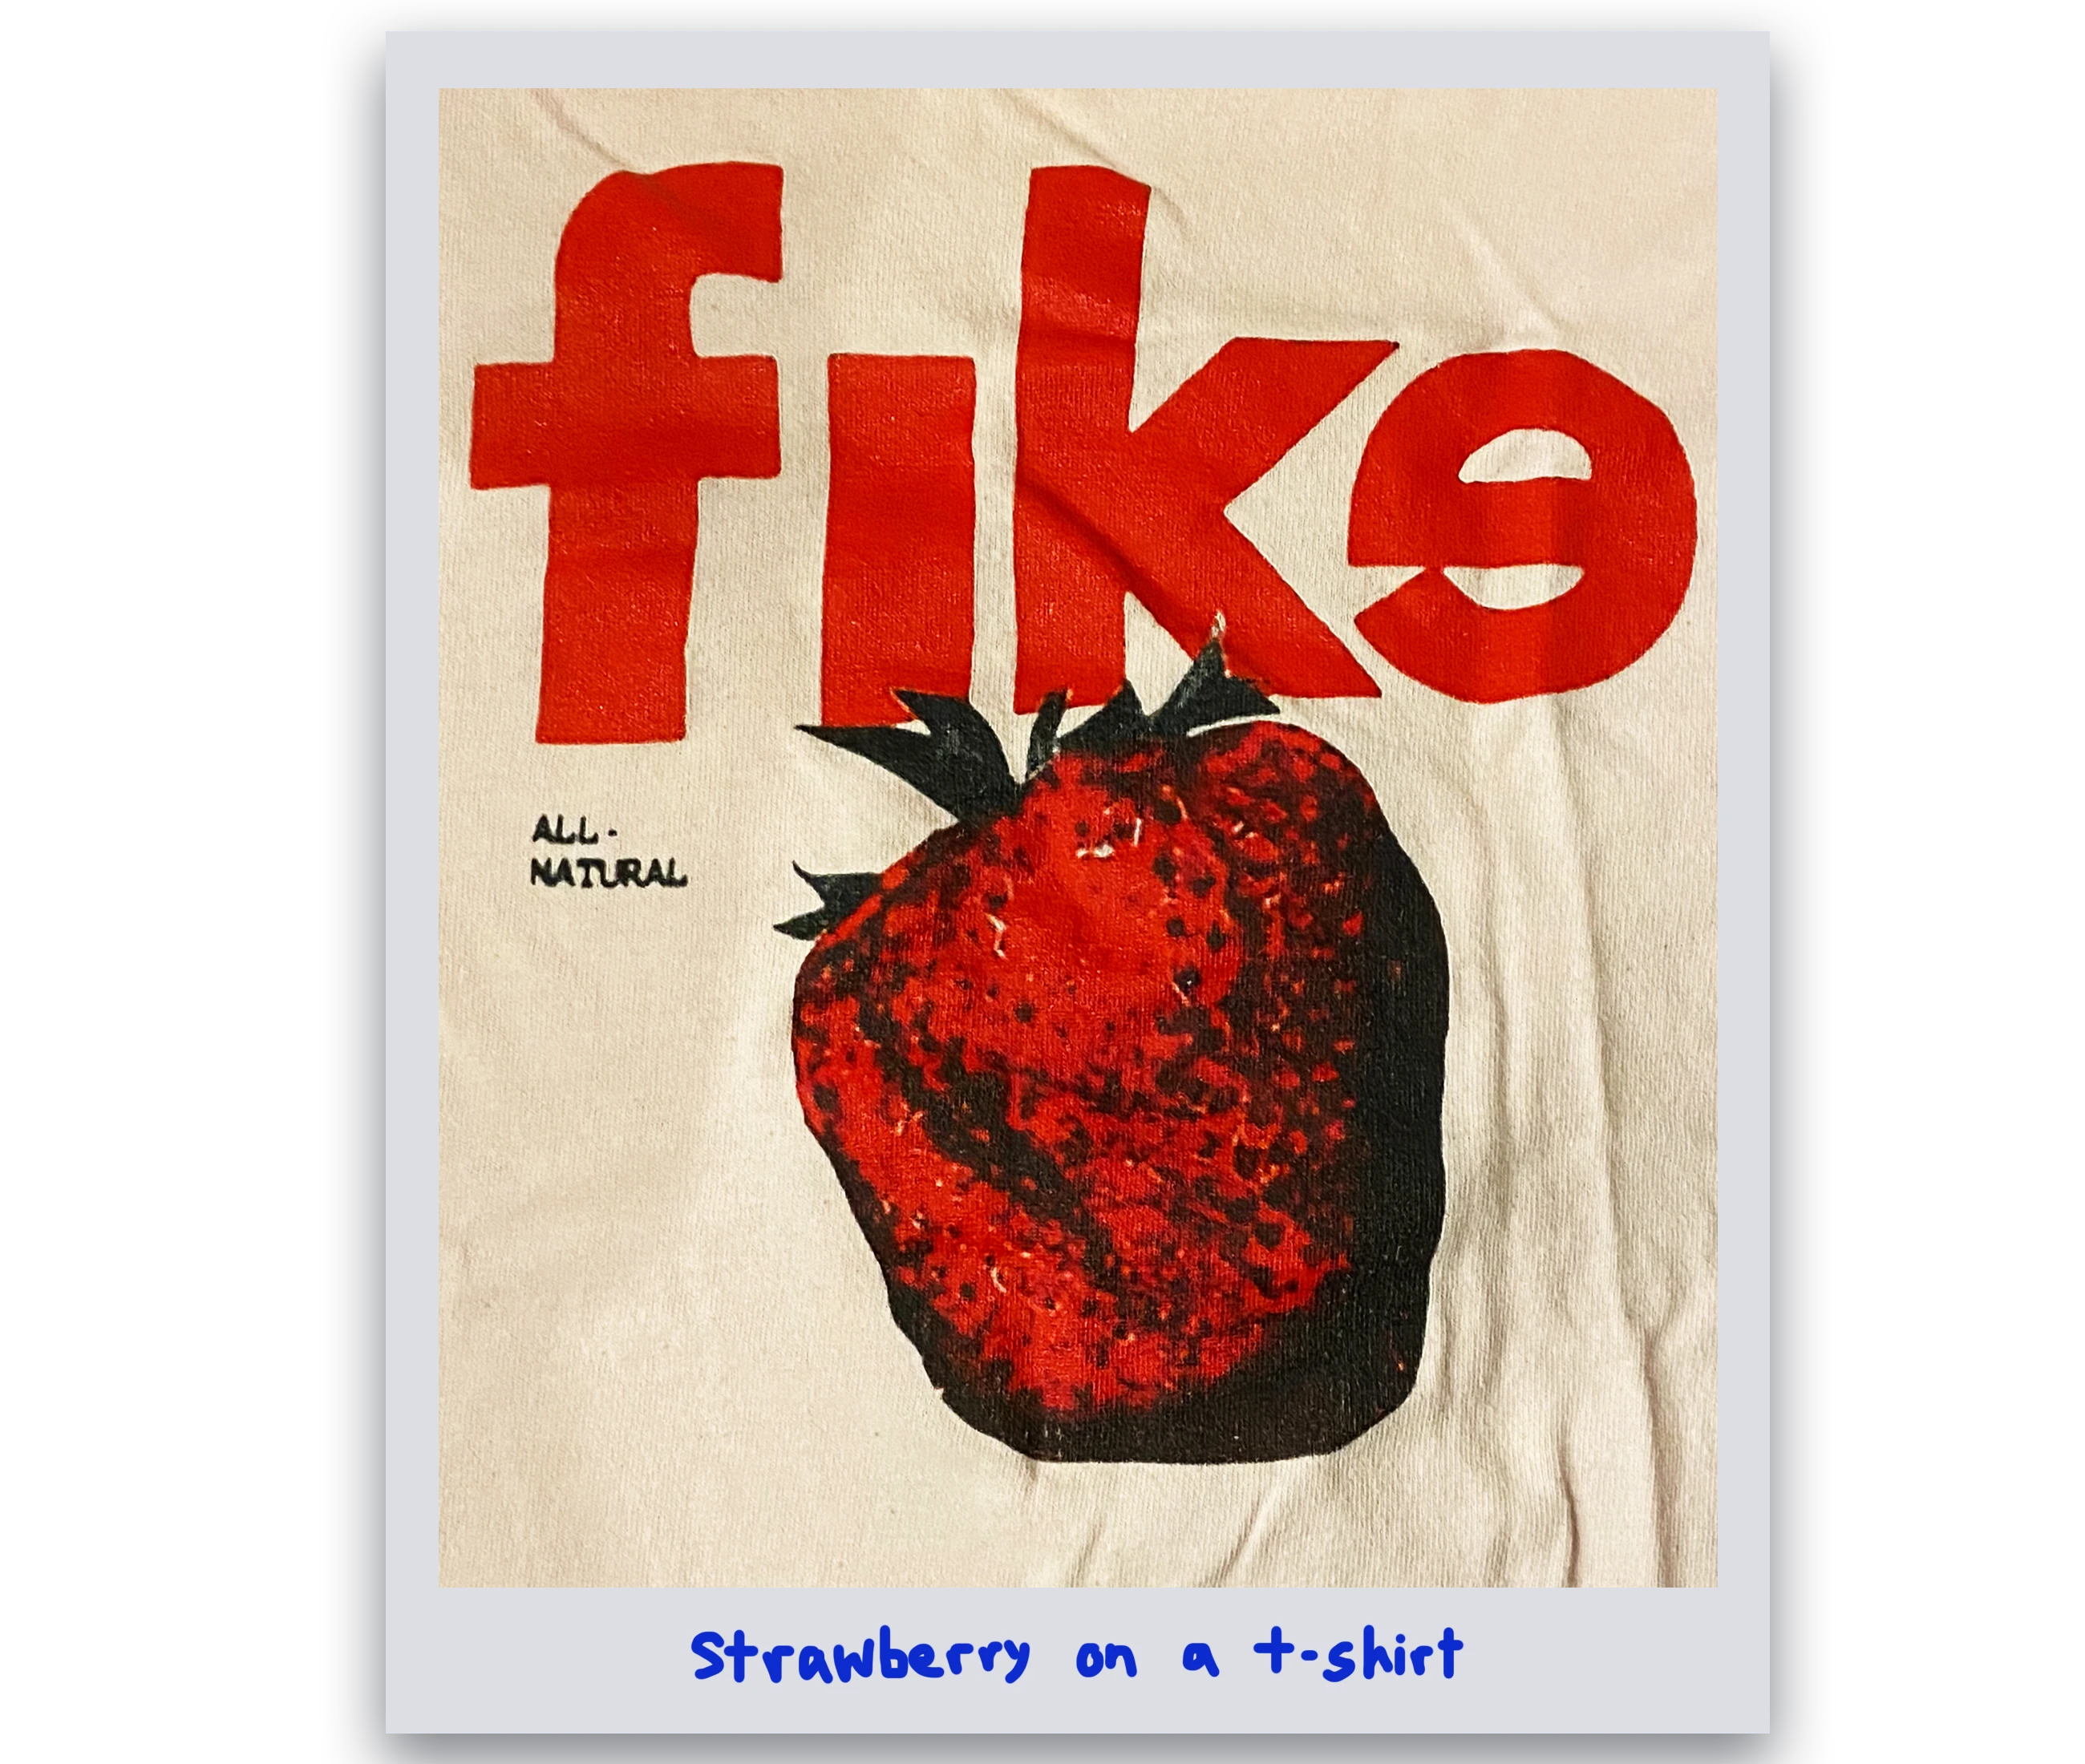
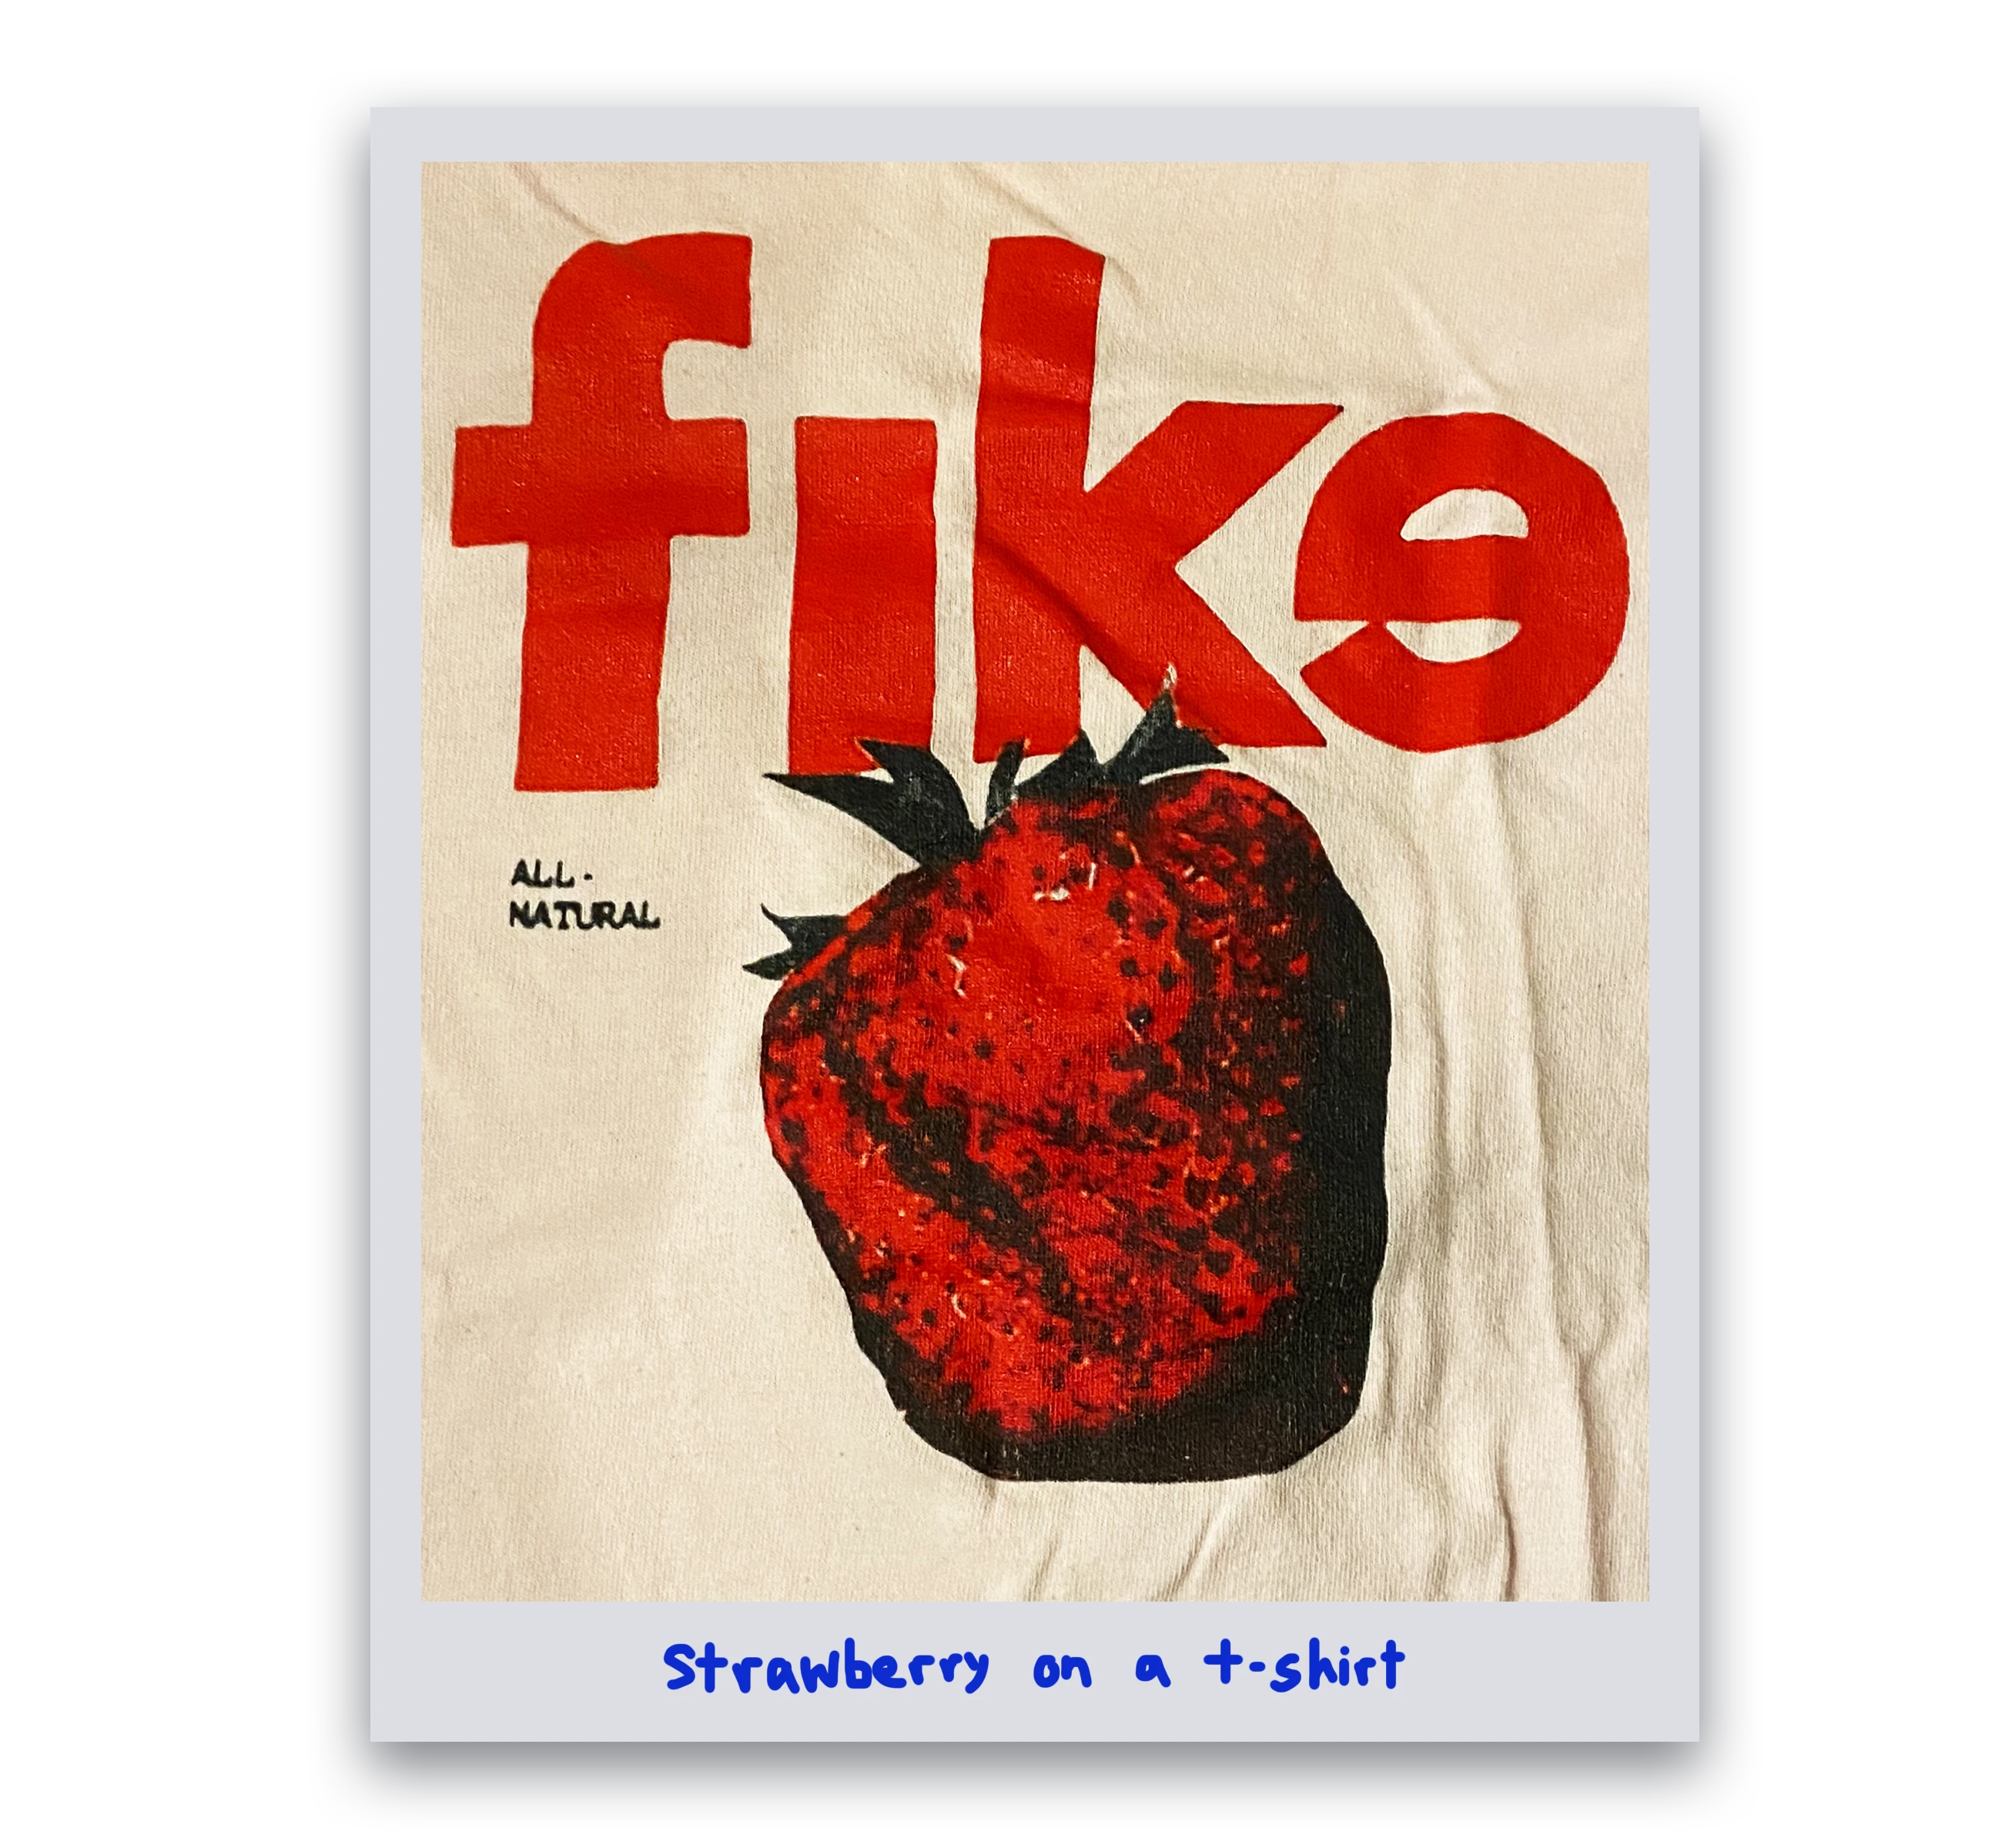
Update final portfolio site

Changed region(s): [[0.1558, 0.0, 0.8723, 1.0], [0.2492, 0.4636, 0.3115, 0.4945]]

diff --git a/wheres-the-inspo/index.html b/wheres-the-inspo/index.html
@@ -88,8 +88,8 @@
       }
       .image-pile {
         position: relative;
-        width: 400px;
-        height: 400px;
+        width: 300px;
+        height: 300px;
       }
       .scatter-img {
         position: absolute;
@@ -123,7 +123,6 @@
       .image-pile.scatter .img6 {
         /* carpet */
         transform: translate(-20px, -500px) rotate(-7deg);
-        width: 430px;
       }
       .image-pile.scatter .img7 {
         /* racecar  x y */